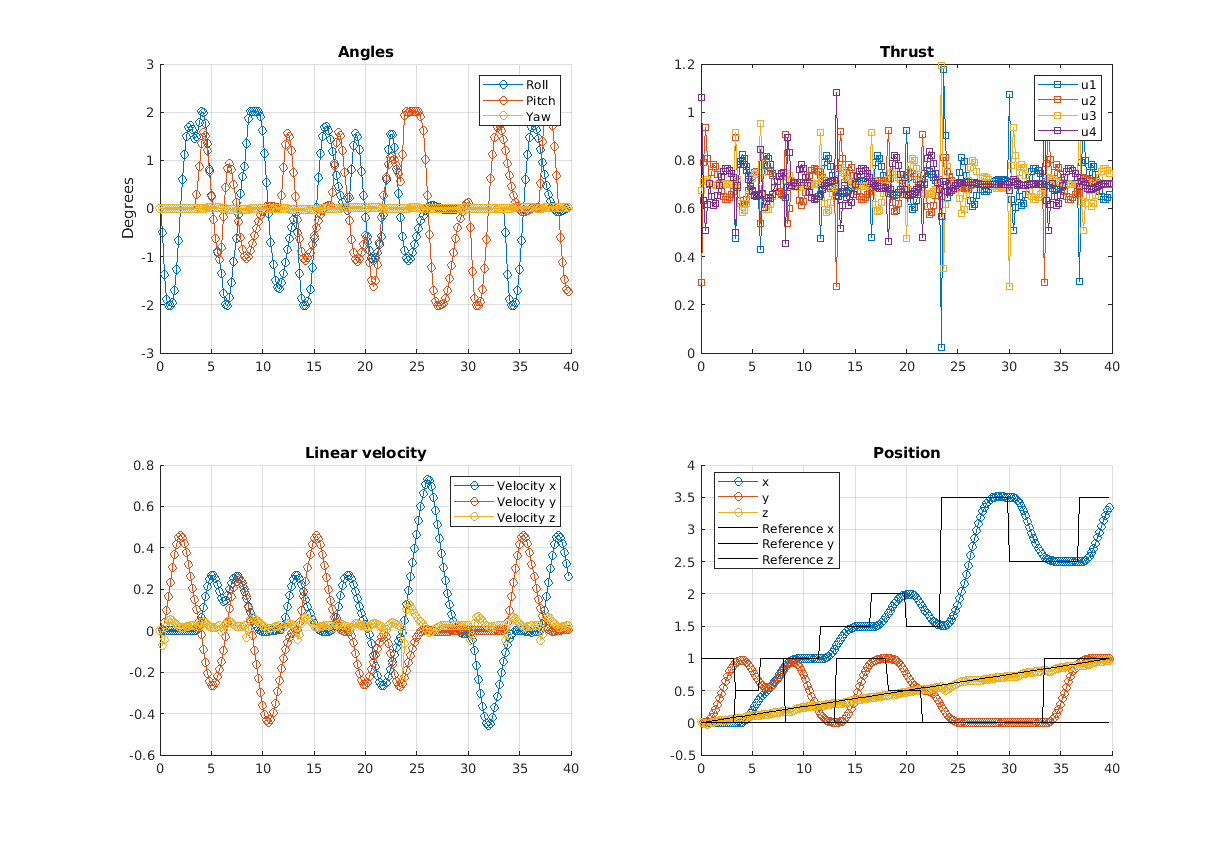
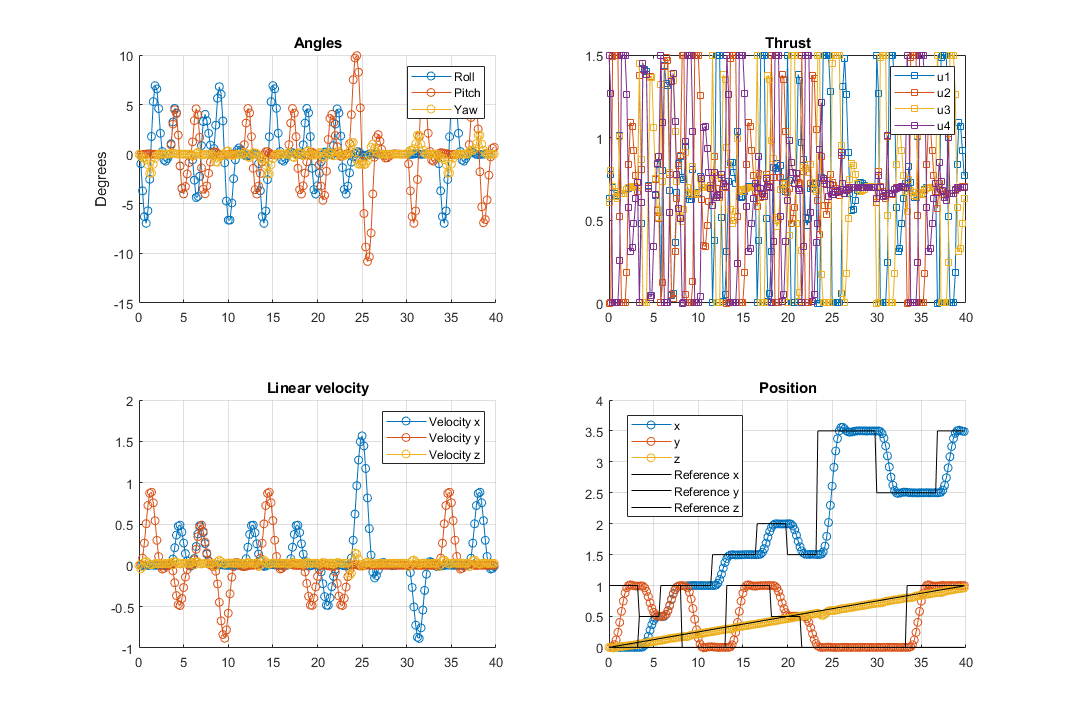
5.1 + 6.1

diff --git a/Deliverable_6_1/ctrl_NMPC.m b/Deliverable_6_1/ctrl_NMPC.m
@@ -26,18 +26,21 @@ function ctrl= ctrl_NMPC(quad)
     [omega,theta,vel,pos]=quad.parse_state(X);
 
     % Objective
-    opti.minimize(10*sumsqr(pos(1:3,:)-REF(1:3))+sumsqr(theta(3,:)-REF(4))+...
-                  0.6*sumsqr(omega(1:3,:))+ 0.6*sumsqr(theta(1:2,:))+...
-                  0.6*sumsqr(vel(1:2,:))+ 15*sumsqr(vel(3,:))+ 0.1*sumsqr(U));
- 
+
+     opti.minimize(30*sumsqr(pos(1:3,:)-REF(1:3)) +...
+                   30*sumsqr(theta(3,:)-REF(4)) +...
+                    1*sumsqr(omega(1:3,:)) +...
+                    1*sumsqr(theta(1:2,:)) +...
+                    5*sumsqr(vel(1:2,:)) +...
+                   40*sumsqr(vel(3,:)) +...
+                  0.1*sumsqr(U));
+
     % Dynamic constraints
     for i=1:N
         opti.subject_to(X(:,i+1)==f_discrete(X(:,i),U(:,i)));
     end
 
     % ---- path constraints -----------
-    opti.subject_to(-0.035 <= X(4,:) <= 0.035); %alpha condition
-    opti.subject_to(-0.035 <= X(5,:) <= 0.035); %beta condition
     opti.subject_to(0 <= U <= 1.5);  % control is limited
 
     % ---- boundary conditions --------

diff --git a/Deliverable_5_1/MPC_Control_z.m b/Deliverable_5_1/MPC_Control_z.m
@@ -167,7 +167,7 @@ classdef MPC_Control_z < MPC_Control
       A_bar = [mpc.A mpc.B;0 0 1];
       B_bar = [mpc.B; 0];
       C_bar = [mpc.C 0];
-      L = -place(A_bar', C_bar', [0.01, 0.02, 0.03]')';
+      L = -place(A_bar', C_bar', [0.02, 0.03, 0.04]')';
       
       % YOUR CODE HERE YOUR CODE HERE YOUR CODE HERE YOUR CODE HERE 
       %%%%%%%%%%%%%%%%%%%%%%%%%%%%%%%%%%%%%%%%%%%%%%%%%%%%%%%%%%%%%%%%

diff --git a/Deliverable_5_1/Deliverable_5_1.m b/Deliverable_5_1/Deliverable_5_1.m
@@ -24,5 +24,5 @@ mpc_yaw = MPC_Control_yaw(sys_yaw, Ts);
 
 sim = quad.sim(mpc_x, mpc_y, mpc_z, mpc_yaw, BIAS);
 quad.plot(sim);
-%  view([0 0])
+%view([90 0])
 % view([0 90])

diff --git a/Deliverable_6_1/Deliverable_6_1.m b/Deliverable_6_1/Deliverable_6_1.m
@@ -8,7 +8,7 @@
 
 clc
 clear
-close all
+close
 
 quad = Quad();
 CTRL= ctrl_NMPC(quad);
